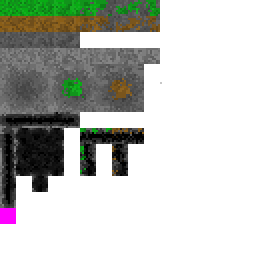
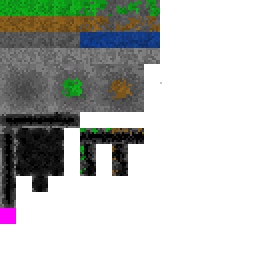
added water

Changed region(s): [[0.3125, 0.125, 0.625, 0.1875]]

diff --git a/src/SceneManager.cpp b/src/SceneManager.cpp
@@ -44,14 +44,21 @@ SceneManager::SceneManager(){
 	tmpVector = new std::vector<sf::Vector2i>();
 	tmpVector->push_back(sf::Vector2i(2,9));
 	colorToTilePositionMap[0x000100ff] = tmpVector; // wall
-	
+	tmpVector = new std::vector<sf::Vector2i>();
+	tmpVector->push_back(sf::Vector2i(5,2));
+	tmpVector->push_back(sf::Vector2i(6,2));
+	tmpVector->push_back(sf::Vector2i(7,2));
+	tmpVector->push_back(sf::Vector2i(8,2));
+	tmpVector->push_back(sf::Vector2i(9,2));
+	colorToTilePositionMap[0x0000abff] = tmpVector; // water
+
 	walkableTileState[0x000100ff] = false;
 	walkableTileState[0x5f5f5fff] = true;
 	walkableTileState[0x9b6d27ff] = true;
 	walkableTileState[0x969896ff] = true;
 	walkableTileState[0x11941bff] = true;
 	
-	currentLevelNumber = -1;
+	currentLevelNumber = 3;
 	nextLevel();
 }
 

diff --git a/src/TriggerItem.cpp b/src/TriggerItem.cpp
@@ -8,6 +8,7 @@ TriggerItem::TriggerItem(sf::Sprite* sprite):Item(sprite,0,6*16,16,16){
 
 bool TriggerItem::applyEffect()
 {
+	soundManager.playSound("sound/switch.ogg");
 	sceneManager.getCurrentScene().switchLargeTile(switchPos1.x, switchPos1.y, switchPos2.x, switchPos2.y);
 	sceneManager.getCurrentScene().textBox->triggerText("trigger");
 	return false;
